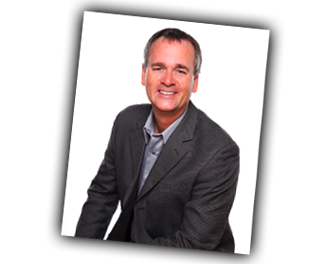
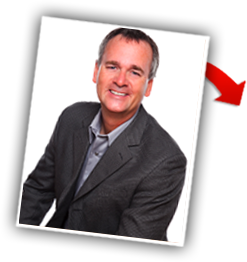
TOS Theme Folder 11/14 update

diff --git a/public/themes/turnaroundselling.thoughtleadapp.com/turnaroundselling.thoughtleadapp.com.css b/public/themes/turnaroundselling.thoughtleadapp.com/turnaroundselling.thoughtleadapp.com.css
@@ -349,8 +349,11 @@ a:hover { color:#649d29; text-decoration:underline}
 	border-top-color: #eaf4ce;
 	border-bottom-color: #e0eeb7;
 }
-	#main_content .banner h2 {background-image: url(images/headlines/h2_domore_bg.gif);}
+	#main_content .banner h2 {background-image: url(images/headlines/h2_domore_bg.gif); height:100px;}
 	#main_content .banner .register {background-image: url(images/template/button_register_bg.gif);}
+	#main_content .banner .content { width:auto;}
+	#main_content .banner .image { top: -35px; right: -50px;
+}
 
 
 	#main_content .section_list h4 {}
@@ -362,3 +365,10 @@ a:hover { color:#649d29; text-decoration:underline}
 
 	#main_content .section_list .arrow {background-image: url(images/template/home_arrow_bg.gif);}
 	#sidebar .cta .arrow {background-image: url(images/template/cta_arrow_bg.gif);}
+	
+.tif_img {
+	position:absolute;
+	z-index: 10000;
+	right: -46px;
+	top: -36px;
+	}
